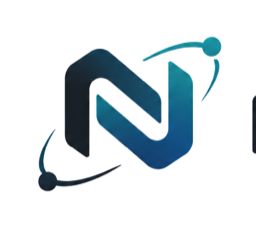
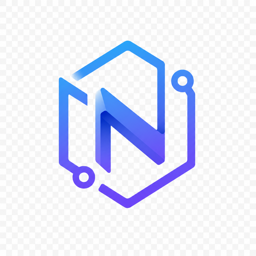
Use colorful Neox DevOps mark and dual-theme wordmarks.

Changed region(s): [[0.125, 0.1535, 0.875, 0.8596], [0.9688, 0.3991, 1.0, 0.6754]]

diff --git a/README.md b/README.md
@@ -3,7 +3,10 @@
 </p>
 
 <p align="center">
-  <img src="docs/assets/wordmark.png" alt="Neox DevOps" width="320">
+  <picture>
+    <source media="(prefers-color-scheme: dark)" srcset="docs/assets/wordmark-dark.png">
+    <img src="docs/assets/wordmark-light.png" alt="Neox DevOps" width="360">
+  </picture>
 </p>
 
 <p align="center">
